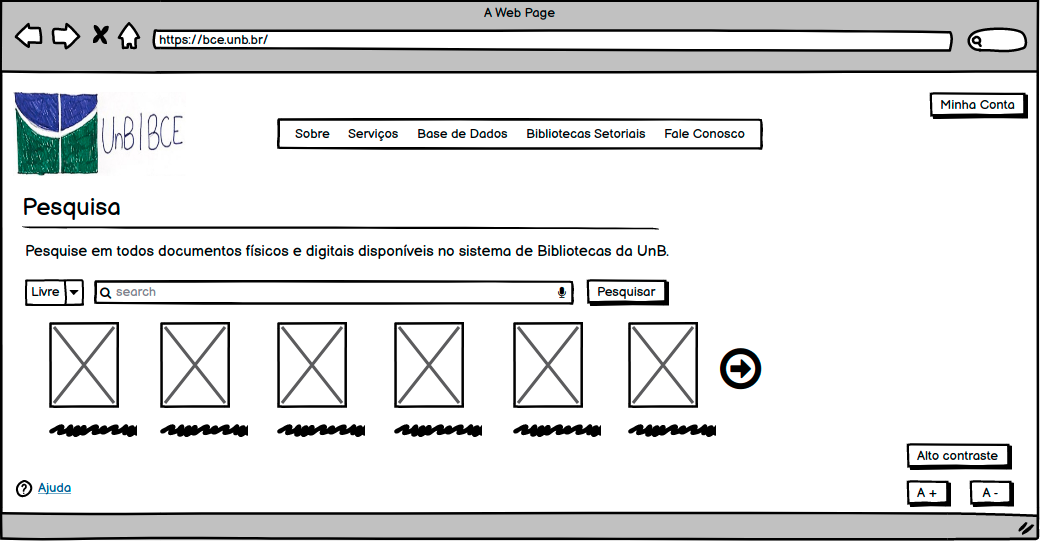
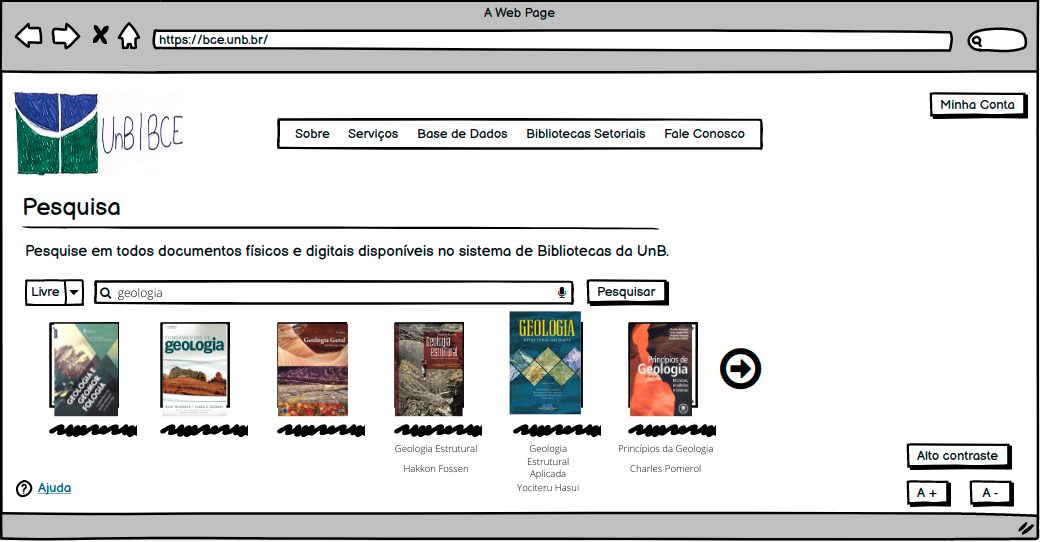
Modify low fidelity Prototypes

diff --git a/docs/pages/ponto_de_controle_5/low_fidelity_prototype.md b/docs/pages/ponto_de_controle_5/low_fidelity_prototype.md
@@ -13,6 +13,7 @@
 | 27.10.2020 |  0.7   | Adição das referências         | Isabella Carneiro e Geraldo Victor |
 | 28.10.2020 |  0.8   |  Revisão do documento          |          Durval Carvalho           |
 | 28.10.2020 |  0.9   |  Adição de legendas nas imagens|          Geraldo Victor            |
+| 29.10.2020 |  0.10   | Modificações nos protótipos | Durval Carvalho |
 
 ### 1. Introdução
 
@@ -34,14 +35,23 @@ O fluxo foi feito com o intuito de ser simples e intuitivo, de modo que o uso do
 
 <img src="_media/images/low_fidelity_prototype_1.png">
   <figcaption align='center'>
-    <b>Protótipo de tela 1: Busca de acervo para reserva</b>
+    <b>Protótipo de tela 1: Tela inicial do site da BCE</b>
+    </br>
+    <small>Fonte: Autor</small>
+  </figcaption>
+</p></br>
+
+<img src="_media/images/low_fidelity_prototype_1-1.png">
+  <figcaption align='center'>
+    <b>Protótipo de tela 1: Tela inicial com barra de busca preenchida</b>
     </br>
     <small>Fonte: Autor</small>
   </figcaption>
 </p></br>
 
 <img src="_media/images/low_fidelity_prototype_2.png">
-  <figcaption align='center'><b>Protótipo de tela 2: Resultado da busca</b>
+  <figcaption align='center'>
+    <b>Protótipo de tela 2: Tela dResultado da busca</b>
     </br>
     <small>Fonte: Autor</small>
   </figcaption>
@@ -57,6 +67,22 @@ O fluxo foi feito com o intuito de ser simples e intuitivo, de modo que o uso do
 <img src="_media/images/low_fidelity_prototype_4.png">
   <figcaption align='center'>
     <b>Protótipo de tela 4: Redirecionamento para login    </b>
+    </br>
+    <small>Fonte: Autor</small>
+  </figcaption>
+</p></br>
+
+<img src="_media/images/low_fidelity_prototype_4-1.png">
+  <figcaption align='center'>
+    <b>Protótipo de tela 5: Tela de login preenchida    </b>
+    </br>
+    <small>Fonte: Autor</small>
+  </figcaption>
+</p></br>
+
+<img src="_media/images/low_fidelity_prototype_4-2.png">
+  <figcaption align='center'>
+    <b>Protótipo de tela 6: Popup de senha inválida</b>
     </br>
     <small>Fonte: Autor</small>
   </figcaption>
@@ -78,6 +104,14 @@ O fluxo foi feito com o intuito de ser simples e intuitivo, de modo que o uso do
   </figcaption>
 </p></br>
 
+<img src="_media/images/low_fidelity_prototype_6-1.png">
+  <figcaption align='center'>
+    <b>Protótipo de tela 6: Tela de restauração de senha preenchida </b>
+    </br>
+    <small>Fonte: Autor</small>
+  </figcaption>
+</p></br>
+
 <img src="_media/images/low_fidelity_prototype_7.png">
   <figcaption align='center'>
     <b>Protótipo de tela 7: Pop-pup link enviado    </b>
@@ -89,6 +123,14 @@ O fluxo foi feito com o intuito de ser simples e intuitivo, de modo que o uso do
 <img src="_media/images/low_fidelity_prototype_8.png">
   <figcaption align='center'>
     <b>Protótipo de tela 8: Trocar senha    </b>
+    </br>
+    <small>Fonte: Autor</small>
+  </figcaption>
+</p></br>
+
+<img src="_media/images/low_fidelity_prototype_8-1.png">
+  <figcaption align='center'>
+    <b>Protótipo de tela 8: Tela de Troca de Senha preenchida </b>
     </br>
     <small>Fonte: Autor</small>
   </figcaption>
@@ -136,7 +178,7 @@ O fluxo foi feito com o intuito de ser simples e intuitivo, de modo que o uso do
 
 <img src="_media/images/low_fidelity_prototype_14.png">
   <figcaption align='center'>
-    <b>Protótipo de tela 14: Listagem de livros ara renovar e listagem de livros já emprestados na data selecionada    </b>
+    <b>Protótipo de tela 14: Listagem de livros para renovar e listagem de livros já emprestados na data selecionada    </b>
     </br>
     <small>Fonte: Autor</small>
   </figcaption>
